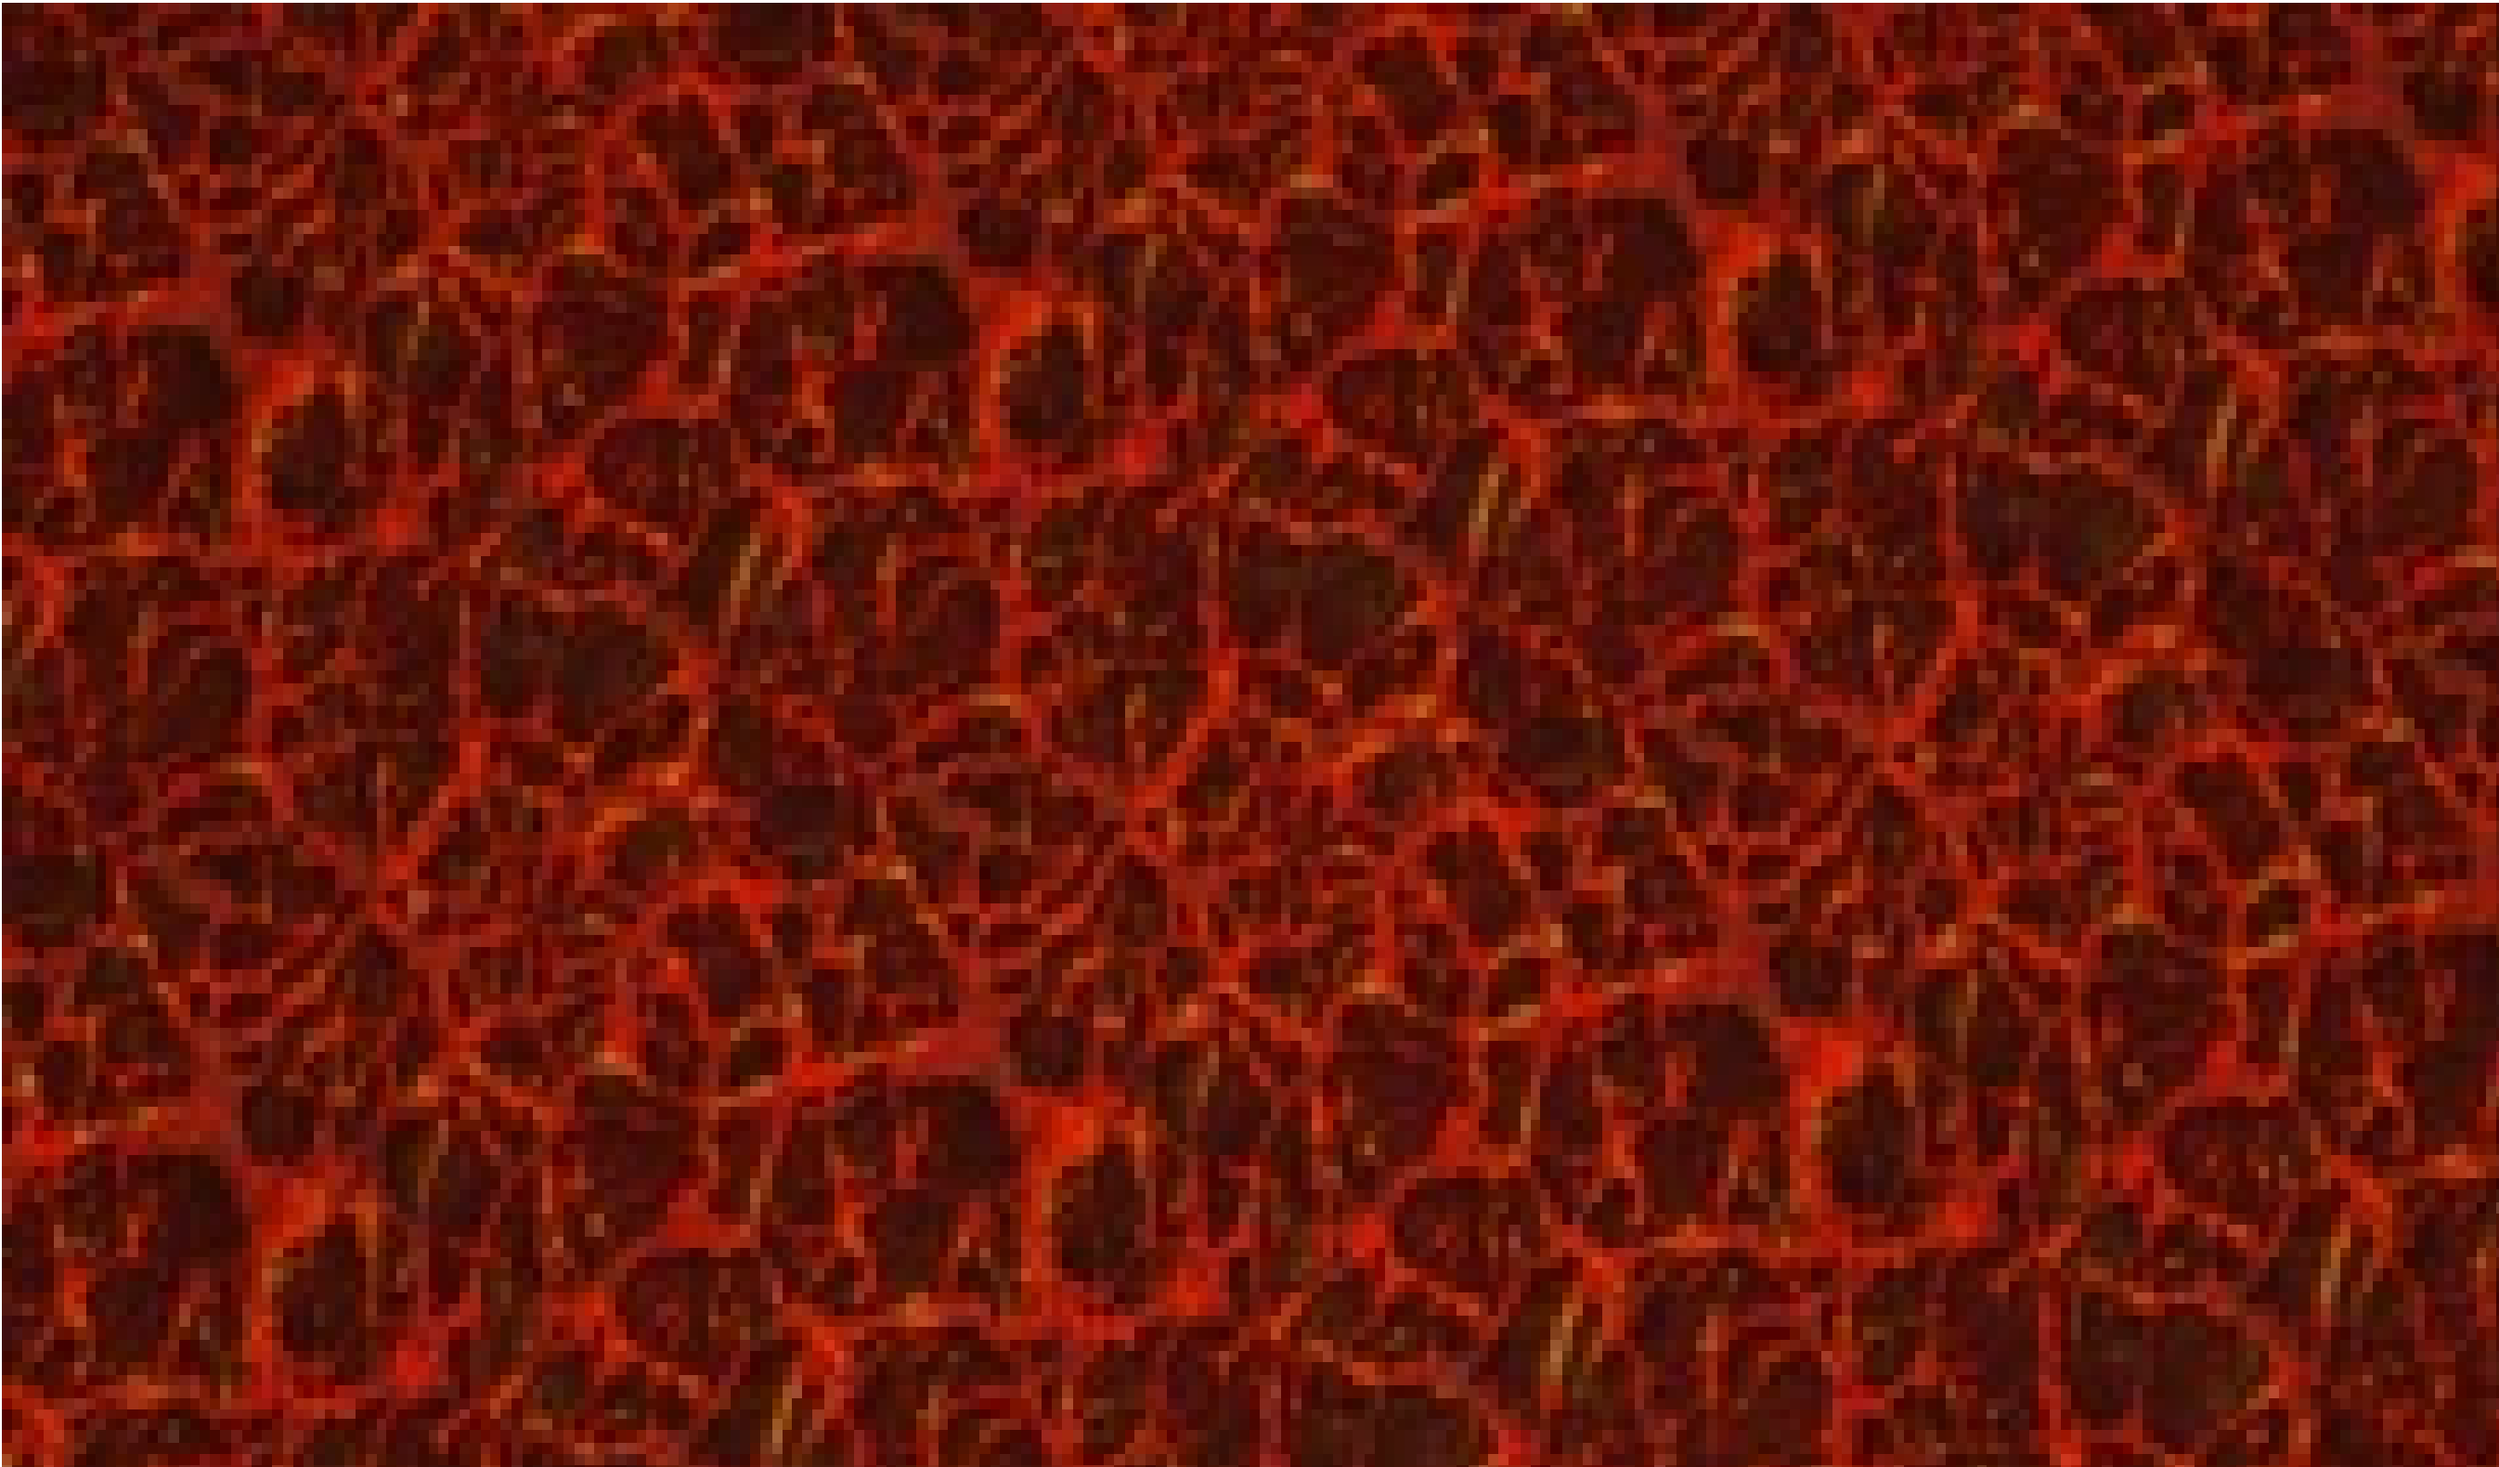
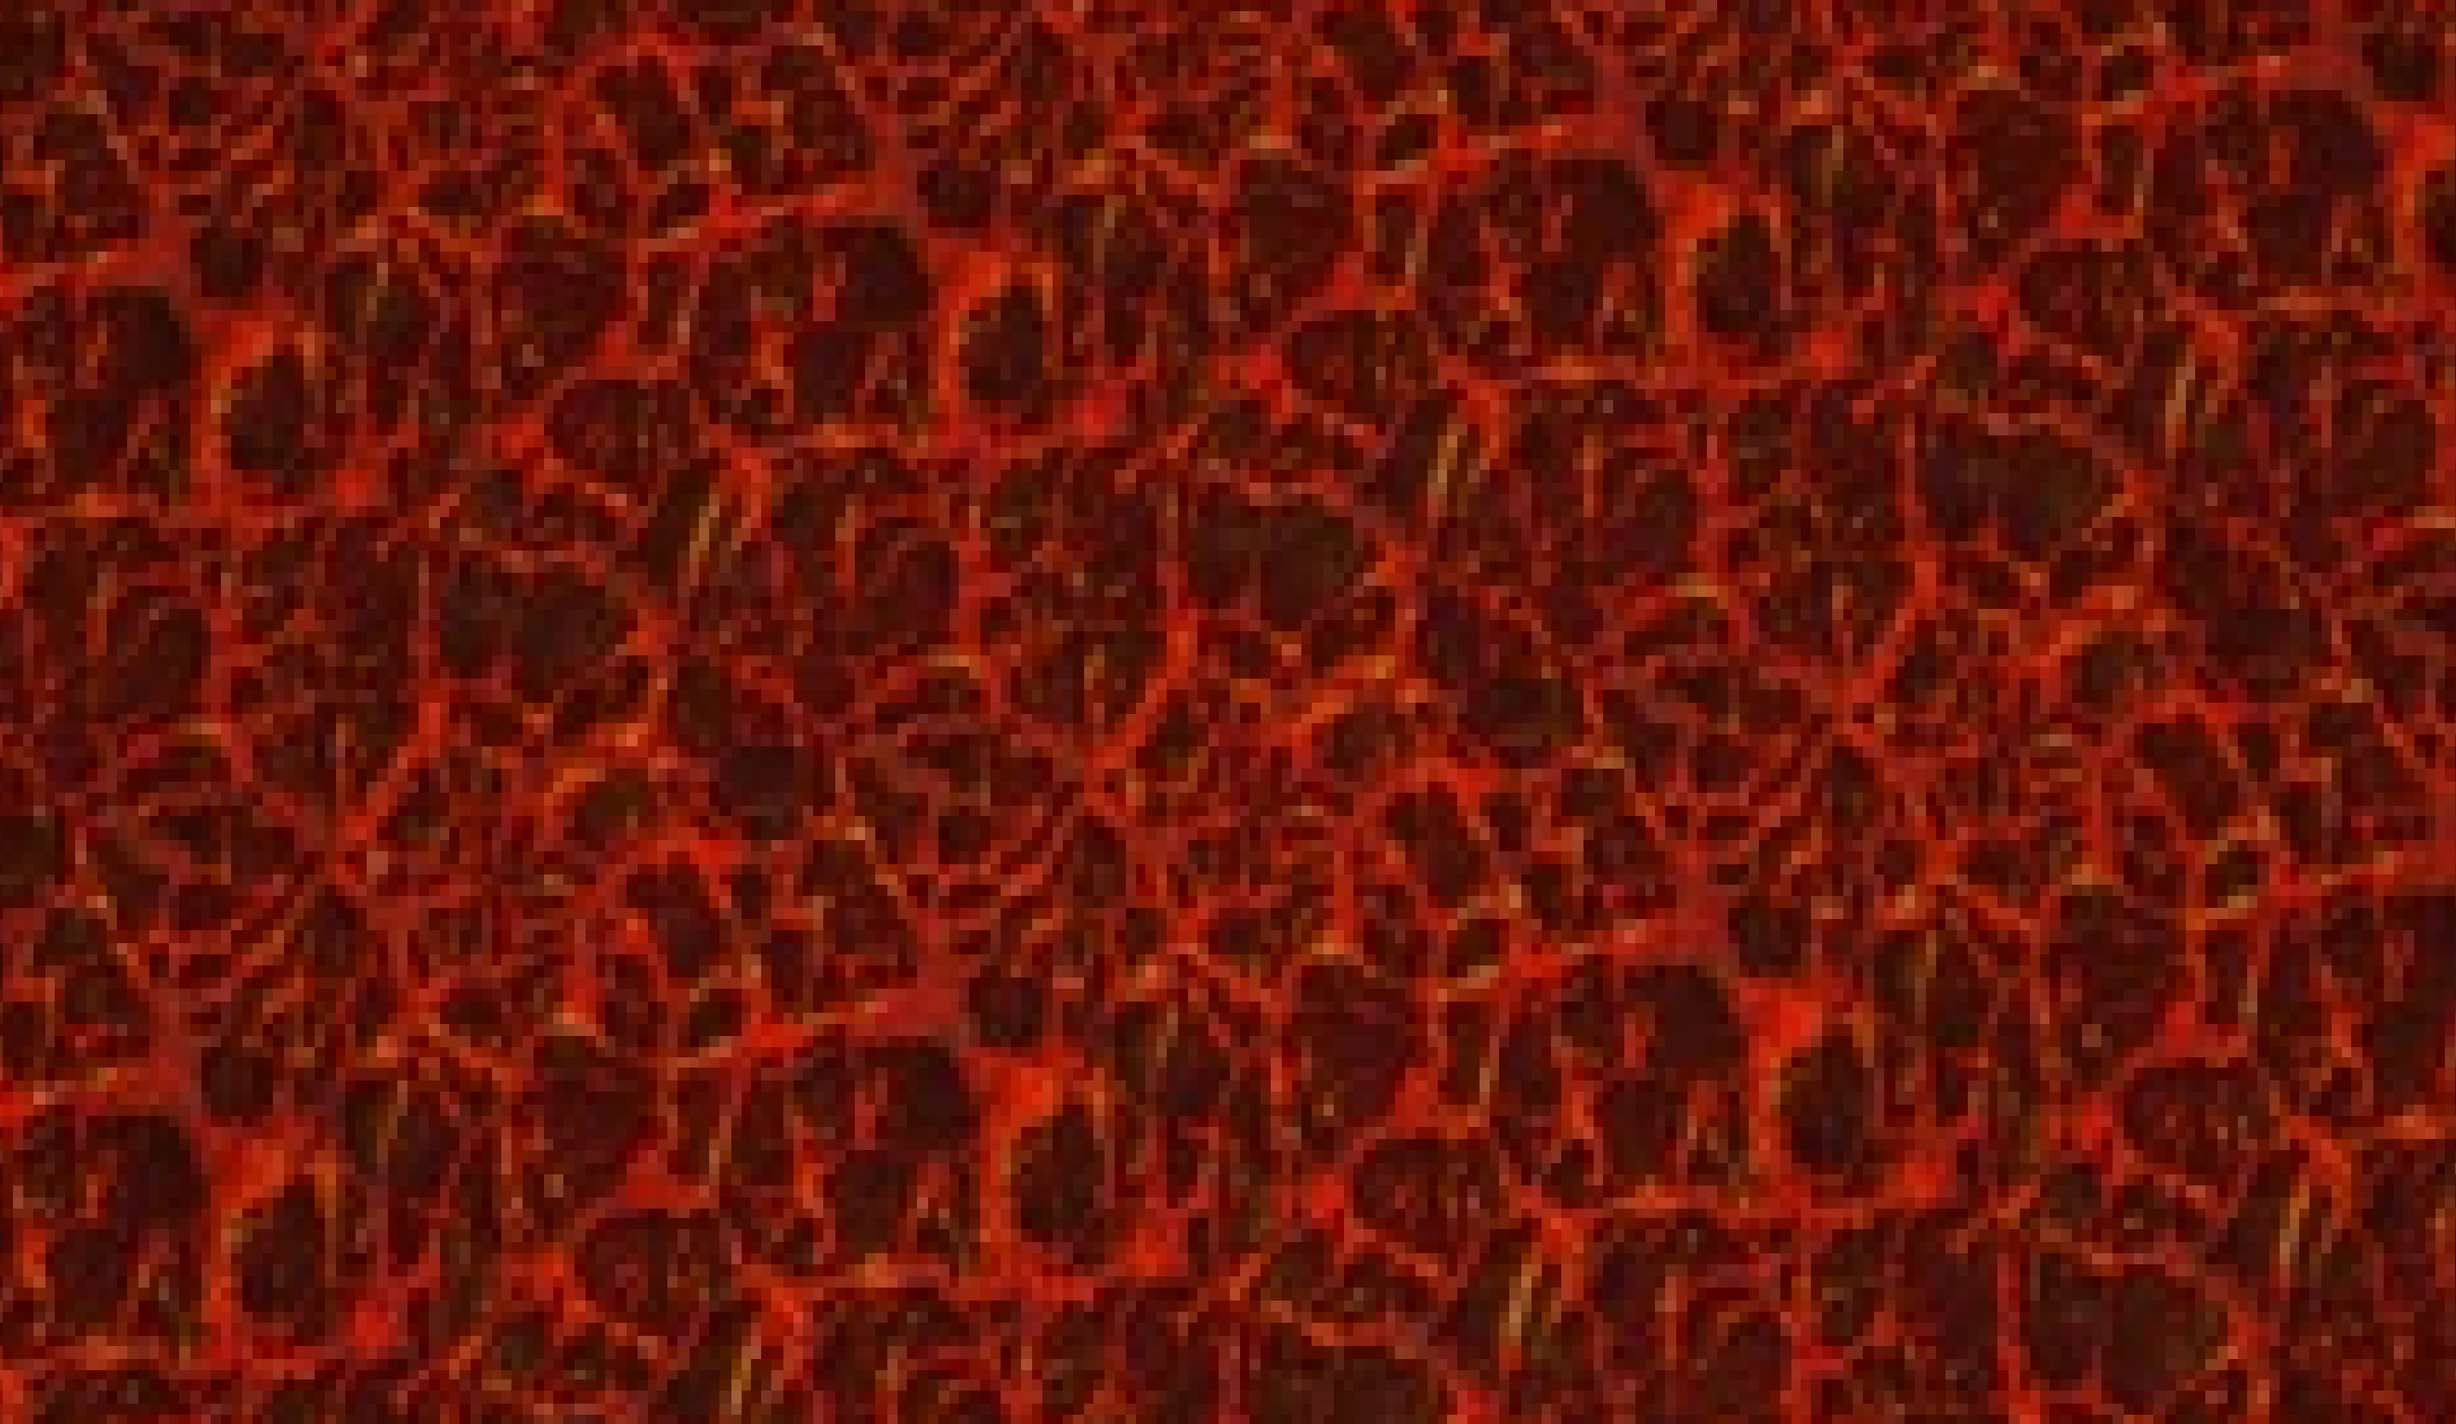
вот и shower

diff --git a/object.py b/object.py
@@ -3,7 +3,8 @@ import support
 allgroup = pygame.sprite.Group()
 tilegroup = pygame.sprite.Group()
 herogroup = pygame.sprite.Group()
-tileimg = {'1': 'lava.png'} # тут картинки и их номера блоков
+backgroup = pygame.sprite.Group()
+tileimg = {'1': 'lava.png'}
 playerimg = 'player.png'
 backimg = 'back.png'
 
@@ -29,14 +30,13 @@ class Hero(pygame.sprite.Sprite):
             support.TILEHEIGHT * y
         )
 
-    def shoot(self):
-        pass
 
-    def fight(self):
-        pass
-
-    def update(self):
-        pass
+class Back(pygame.sprite.Sprite):
+    def __init__(self):
+        super().__init__(allgroup)
+        self.add(backgroup)
+        self.image = support.loadImage(backimg)
+        self.rect = self.image.get_rect().move(0, 0)
 
 
 class Camera:
@@ -50,11 +50,31 @@ class Particle(pygame.sprite.Sprite):
 
 
 class Shower:
-    pass
+    def __init__(self, levelnum=1):
+        self.setLevel(levelnum)
+        self.show = True
+
+    def stop(self):
+        self.show = False
+
+    def isshow(self):
+        return self.show
+
+    def setLevel(self, levelnum=1):
+        self.levelnum = levelnum
+        level = support.loadLevel(self.levelnum)
+        self.player = generatelevel(level)
+
+    def update(self):
+        allgroup.update()
+
+    def draw(self, screen):
+        allgroup.draw(screen)
 
 
 def generatelevel(level):
     player = None
+    Back()
     for y in range(len(level)):
         for x in range(len(level[y])):
             if level[y][x] == '@':

diff --git a/main.py b/main.py
@@ -13,15 +13,13 @@ def main():
 
 def action():
     screen = pygame.display.set_mode()
-    player = object.generatelevel(support.loadLevel(1))
-    show = True
-    while show:
+    shower = object.Shower()
+    while shower.isshow():
         for event in pygame.event.get():
             if event.type == pygame.QUIT:
-                show = False
-        screen.blit(pygame.transform.scale(support.loadImage(object.backimg), pygame.display.get_window_size()), (0, 0))
-        object.allgroup.update()
-        object.allgroup.draw(screen)
+                shower.stop()
+        shower.update()
+        shower.draw(screen)
         pygame.display.flip()
 
 
